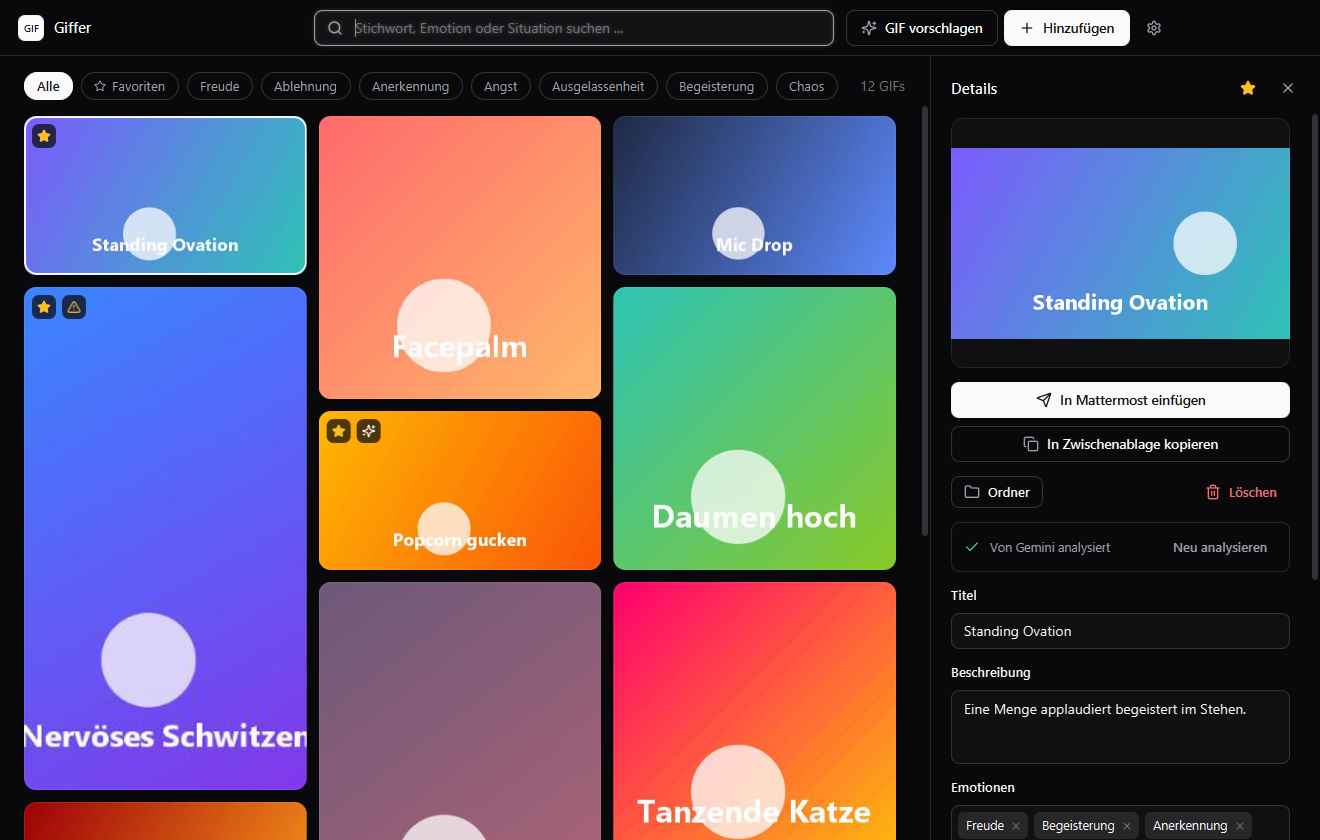
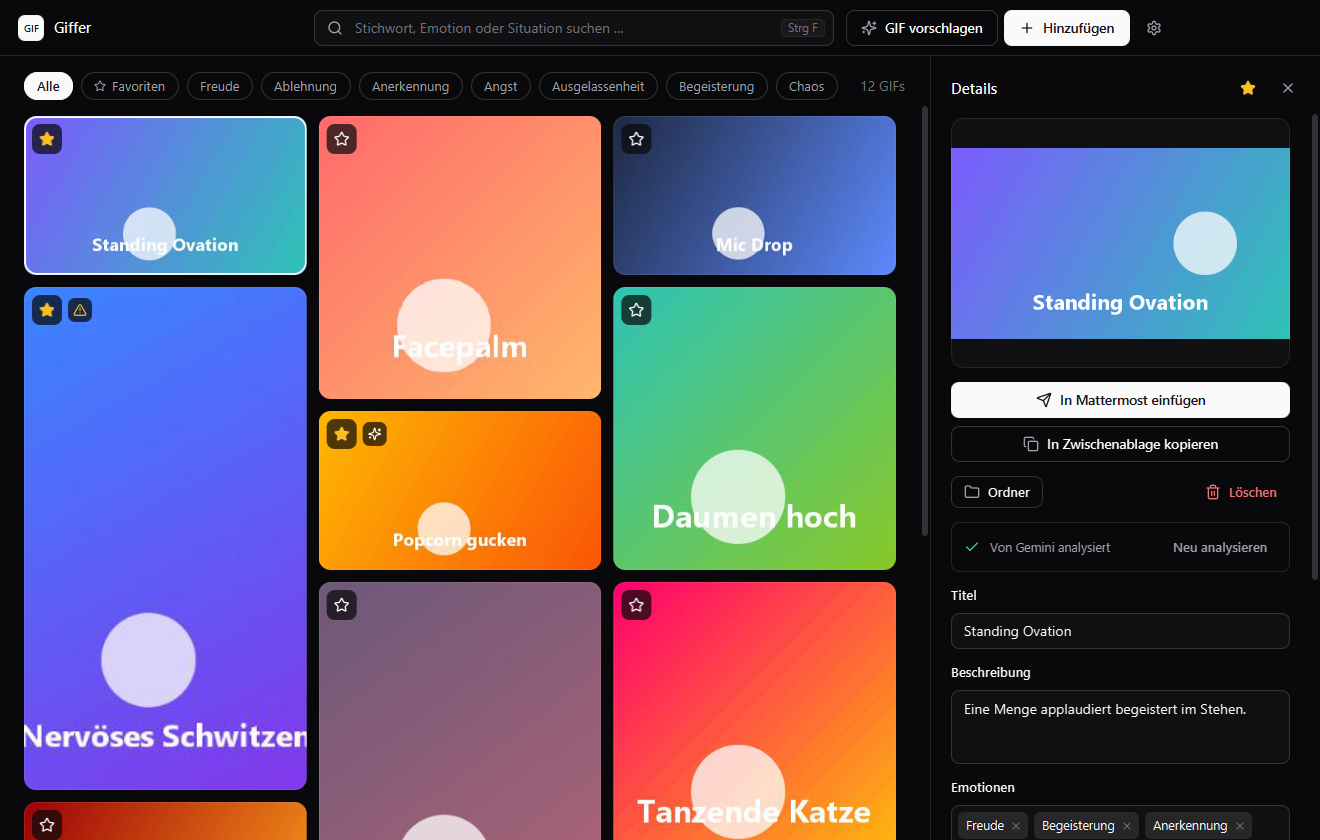
fix: Deduplicate favorite-button in GIF-grid

diff --git a/src/giffer/GifCard.java b/src/giffer/GifCard.java
@@ -18,7 +18,6 @@ import javafx.scene.input.MouseButton;
 import javafx.scene.input.MouseEvent;
 import javafx.scene.input.TransferMode;
 import javafx.scene.layout.HBox;
-import javafx.scene.layout.Pane;
 import javafx.scene.layout.Region;
 import javafx.scene.layout.StackPane;
 import javafx.scene.layout.VBox;

diff --git a/README.md b/README.md
@@ -17,8 +17,8 @@ in deinen Chat ein.
   und Ton, nicht nur einzelne Wörter.
 - **Schnelle Suche**: Live-Suche über alle Felder, Filter-Chips für die häufigsten Emotionen. `Enter` kopiert
   den besten Treffer.
-- **Favoriten**: Mit dem Stern markierst du deine liebsten GIFs. Sie tragen ein Sternchen auf der Karte, lassen sich
-  über den Chip **Favoriten** gezielt filtern (auch zusammen mit der Suche), und bei gleich gutem Treffer stehen sie
+- **Favoriten**: Mit dem Stern oben links auf jeder Karte markierst du deine liebsten GIFs (gelb gefüllt = Favorit).
+  Der Chip **Favoriten** zeigt nur diese (auch zusammen mit der Suche), und bei gleich gutem Treffer stehen sie
   in der Suche und bei **GIF vorschlagen** vorne.
 - **Animierte Vorschau**: Beim Überfahren spielt ein GIF ab, rechts im Detail-Panel sieht man es groß.
 - **Ein Klick in deine Anwendung**: Der Papierflieger-Button legt das GIF in die Zwischenablage, holt eine
@@ -46,7 +46,7 @@ Windows SmartScreen warnt bei unbekannten, nicht signierten Programmen: „Weite
 | Suchen | Tippen. `Strg+F` springt in die Suche, `Esc` leert sie |
 | Passendes GIF zu einer Nachricht finden | **GIF vorschlagen** oder `Strg+G`, Text eingeben, `Strg+Enter` |
 | Details ansehen und bearbeiten | Auf eine Karte klicken |
-| Favorit markieren | Stern auf der Karte (beim Überfahren) oder oben im Detail-Panel. Der Chip **Favoriten** zeigt nur Favoriten |
+| Favorit markieren | Stern oben links auf der Karte oder oben im Detail-Panel. Der Chip **Favoriten** zeigt nur Favoriten |
 | In die Zwischenablage kopieren | Doppelklick auf die Karte oder der Kopieren-Button |
 | In eine Anwendung einfügen | Papierflieger-Button (auf der Karte beim Überfahren, oder im Detail-Panel) |
 | Andere Anwendung wählen | `Umschalt` gedrückt halten beim Klick auf den Papierflieger |
